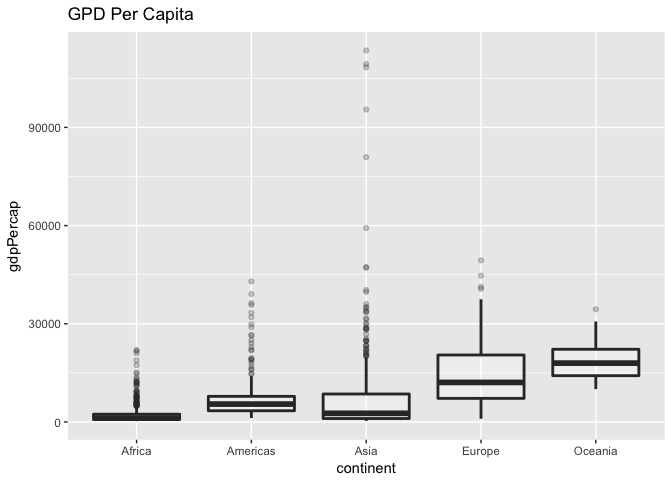
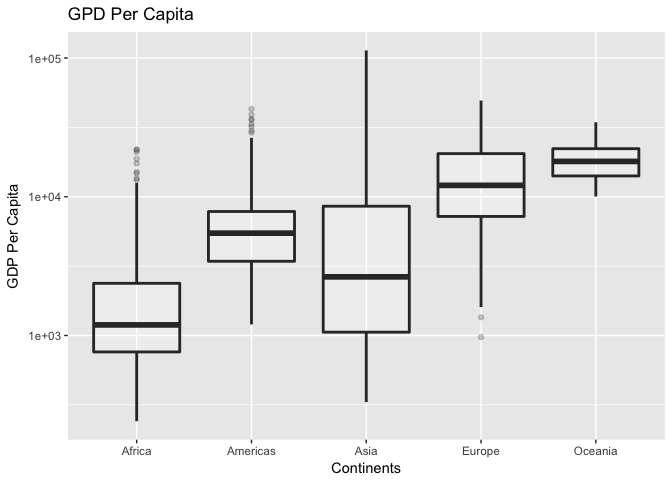
task 3 and 4

diff --git a/hw03/hw3_gapminder_exploration.md b/hw03/hw3_gapminder_exploration.md
@@ -14,26 +14,15 @@ First I created a basic table with each continents's maximum and minimum GDP per
 | Europe    |        49357.19|        973.5332|
 | Oceania   |        34435.37|      10039.5956|
 
-Then I created a new dataframe object with just the data I was interested in.
-
-    ## # A tibble: 5 x 3
-    ##   continent Max_gdpPercap Min_gdpPercap
-    ##      <fctr>         <dbl>         <dbl>
-    ## 1    Africa      21951.21      241.1659
-    ## 2  Americas      42951.65     1201.6372
-    ## 3      Asia     113523.13      331.0000
-    ## 4    Europe      49357.19      973.5332
-    ## 5   Oceania      34435.37    10039.5956
-
 This table seems to show that Asia has the largest maximum GDP per capita and that Africa has the lowest. In terms of the minimum GDP per capita, Africa has the lowest while Oceania has the highest.
 
-Since I want r to cluster my max and min gdp per capitals, I need to put these into a single variable which r can then graph by colour. To do this I used the `melt` function.
+Since I want r to cluster my max and min gdp per capitals, I need to put these into a single variable which r can then graph by colour. To do this I first created a data frame of only the data I needed and then I used the `melt` function to restructure the data for clustering.
 
-![](hw3_gapminder_exploration_files/figure-markdown_github-ascii_identifiers/unnamed-chunk-5-1.png)
+![](hw3_gapminder_exploration_files/figure-markdown_github-ascii_identifiers/unnamed-chunk-4-1.png)
 
 This layout is still a bit tricky to read because of the large differences in gdp. So I put the y-axis on a log scale of 10 before cleaning up the graph.
 
-![](hw3_gapminder_exploration_files/figure-markdown_github-ascii_identifiers/unnamed-chunk-6-1.png) \`\`\`
+![](hw3_gapminder_exploration_files/figure-markdown_github-ascii_identifiers/unnamed-chunk-5-1.png) \`\`\`
 
 In this graph we can see the maximum and minimum GDP per capita levels clearly for each continent. Overall, Asia appears to have the largest difference between the maximum and minimum GDP per capita in the records. However, Asia also has the highest maximum GDP per capita in the records. We can also see that Oceania has the smallest difference between its maximum and minimum GDP per capita levels. The highest minimum GDP per capita level belongs to Oceania while the lowest belongs to Africa.
 
@@ -52,11 +41,11 @@ This table is really hard to read. There is a lot of information. We can see tha
 
 The best way I think to plot data distributions like this is with box plots:
 
-![](hw3_gapminder_exploration_files/figure-markdown_github-ascii_identifiers/unnamed-chunk-8-1.png)
+![](hw3_gapminder_exploration_files/figure-markdown_github-ascii_identifiers/unnamed-chunk-7-1.png)
 
 This is still very hard to read so I decided to have plot the log10 of the y-axis.
 
-![](hw3_gapminder_exploration_files/figure-markdown_github-ascii_identifiers/unnamed-chunk-9-1.png)
+![](hw3_gapminder_exploration_files/figure-markdown_github-ascii_identifiers/unnamed-chunk-8-1.png)
 
 This graph is much easier to read. Here we can easily compare the means and tell that Oceania and Europe have higher overall GDP per capita than Africa and Asia. However, the distribution is much more spread out for Asia than any of the other continents with Oceania showing little variation in GDP per capita than the other continents. We can also see that the maximum values are higher for Asia than the other continents.
 
@@ -103,26 +92,88 @@ After creating this table, I realized that the intrepretation is still a bit tri
 
 Here is a plot to make things clearer:
 
-``` r
-gapminder %>% 
-   mutate(Scalegdp=((gdpPercap-mean(gdpPercap))/sd(gdpPercap))) %>%
-   mutate(WLife= ((gdpPercap-mean(gdpPercap))/sd(gdpPercap)) * lifeExp) %>%
-   group_by(year) %>%
-   summarize(meangdp =mean(gdpPercap), meanscaledgdp =mean(Scalegdp), meanLife= mean(lifeExp), meanWLife =mean(WLife)) %>% 
-   ggplot(aes(x=year, y=meanWLife)) +
-   geom_line(alpha=0.5, shape=21) + 
-   labs(x="Year", 
-          y="Weighted Life Expectancy",
-          title="Life Expectancy Weighted by GDP per capita")
-```
-
-    ## Warning: Ignoring unknown parameters: shape
-
-![](hw3_gapminder_exploration_files/figure-markdown_github-ascii_identifiers/unnamed-chunk-12-1.png)
+![](hw3_gapminder_exploration_files/figure-markdown_github-ascii_identifiers/unnamed-chunk-11-1.png)
 
 Well this is kind of boring but it does satify the "one graph for one idea" criteria. Even after accounting for GDP per capita, we see a steady increase of life expectancy as time goes on.
 
-### Task 4: Report the absolute and/or relative abundance of countries with low life expectancy over time by continent: Compute some measure of worldwide life expectancy – you decide – a mean or median or some other quantile or perhaps your current age. Then determine how many countries on each continent have a life expectancy less than this benchmark, for each year.
+Task 4: Report the absolute and/or relative abundance of countries with low life expectancy over time by continent: Compute some measure of worldwide life expectancy – you decide – a mean or median or some other quantile or perhaps your current age. Then determine how many countries on each continent have a life expectancy less than this benchmark, for each year.
+-----------------------------------------------------------------------------------------------------------------------------------------------------------------------------------------------------------------------------------------------------------------------------------------------------------------------------------------------------------------------------
 
-I decided to compute the number of countries within each continent which have a median life expectancy below 40
----------------------------------------------------------------------------------------------------------------
+### I decided to compute the number of countries within each continent which have a median life expectancy below 40.
+
+First I created a groupy\_by code for continents, then I created a new variable which was the count of countries with a life expectancy below 40. My source for this code was actually just a modification of my hw2.
+
+Now to aggregate group by continent and year a freqency column reporting the number of countries that have a life expectancy under 40.
+
+This is really ugly table but has our information
+
+| Var1     | Var2 |  Freq|
+|:---------|:-----|-----:|
+| Africa   | 1952 |    29|
+| Americas | 1952 |     1|
+| Asia     | 1952 |    10|
+| Europe   | 1952 |     0|
+| Oceania  | 1952 |     0|
+| Africa   | 1957 |    23|
+| Americas | 1957 |     0|
+| Asia     | 1957 |     5|
+| Europe   | 1957 |     0|
+| Oceania  | 1957 |     0|
+| Africa   | 1962 |    15|
+| Americas | 1962 |     0|
+| Asia     | 1962 |     3|
+| Europe   | 1962 |     0|
+| Oceania  | 1962 |     0|
+| Africa   | 1967 |    10|
+| Americas | 1967 |     0|
+| Asia     | 1967 |     2|
+| Europe   | 1967 |     0|
+| Oceania  | 1967 |     0|
+| Africa   | 1972 |     6|
+| Americas | 1972 |     0|
+| Asia     | 1972 |     2|
+| Europe   | 1972 |     0|
+| Oceania  | 1972 |     0|
+| Africa   | 1977 |     3|
+| Americas | 1977 |     0|
+| Asia     | 1977 |     2|
+| Europe   | 1977 |     0|
+| Oceania  | 1977 |     0|
+| Africa   | 1982 |     3|
+| Americas | 1982 |     0|
+| Asia     | 1982 |     1|
+| Europe   | 1982 |     0|
+| Oceania  | 1982 |     0|
+| Africa   | 1987 |     1|
+| Americas | 1987 |     0|
+| Asia     | 1987 |     0|
+| Europe   | 1987 |     0|
+| Oceania  | 1987 |     0|
+| Africa   | 1992 |     3|
+| Americas | 1992 |     0|
+| Asia     | 1992 |     0|
+| Europe   | 1992 |     0|
+| Oceania  | 1992 |     0|
+| Africa   | 1997 |     2|
+| Americas | 1997 |     0|
+| Asia     | 1997 |     0|
+| Europe   | 1997 |     0|
+| Oceania  | 1997 |     0|
+| Africa   | 2002 |     2|
+| Americas | 2002 |     0|
+| Asia     | 2002 |     0|
+| Europe   | 2002 |     0|
+| Oceania  | 2002 |     0|
+| Africa   | 2007 |     1|
+| Americas | 2007 |     0|
+| Asia     | 2007 |     0|
+| Europe   | 2007 |     0|
+| Oceania  | 2007 |     0|
+
+I'm sure there is a way to lay out this table much nicer. But since the assignment explicitly said not to worry about it, I moved on to the graph.
+
+Here is a much cleaner graph to show our data:
+
+![](hw3_gapminder_exploration_files/figure-markdown_github-ascii_identifiers/unnamed-chunk-15-1.png)
+
+Here we can see that Africa had the largest number of countries with a very low average life expectancy for years before 1972 but after that African countries were more similiar to other continents. Most continents have very few countries with life expectancies under 40. One thing with this graph that drives me crazy is that Europe and Oceania both have zeros for all their data perfectly overlay. This results in a purple colour (blue and pink) for the bottome zeros. It's cool that it does that but for a reader it would be very confusing.

diff --git a/hw03/README.md b/hw03/README.md
@@ -15,4 +15,5 @@ I had a lot mutating my variables for this weighted mean. I spent a lot of time 
 ### Task 4: Report the absolute and/or relative abundance of countries with low life expectancy over time by continent: Compute some measure of worldwide life expectancy – you decide – a mean or median or some other quantile or perhaps your current age. Then determine how many countries on each continent have a life expectancy less than this benchmark, for each year.
 
 ## I decided to compute the number of countries within each continent which have a median life expectancy below 40
-
+It was pretty easy to create the mutate functions to count all the countries with life expectancies below 40. It took me forever to get a correct frequency count. I finally modified code from this (stackoverflow page)[https://stackoverflow.com/questions/25293045/count-number-of-rows-in-a-data-frame-in-r-based-on-group] 
+I had some issues on this graph. ggplot really didn't like my data.frame. I couldn't get the line to show up. I tried several functions but kept getting errors about there only being one observation per group. 
